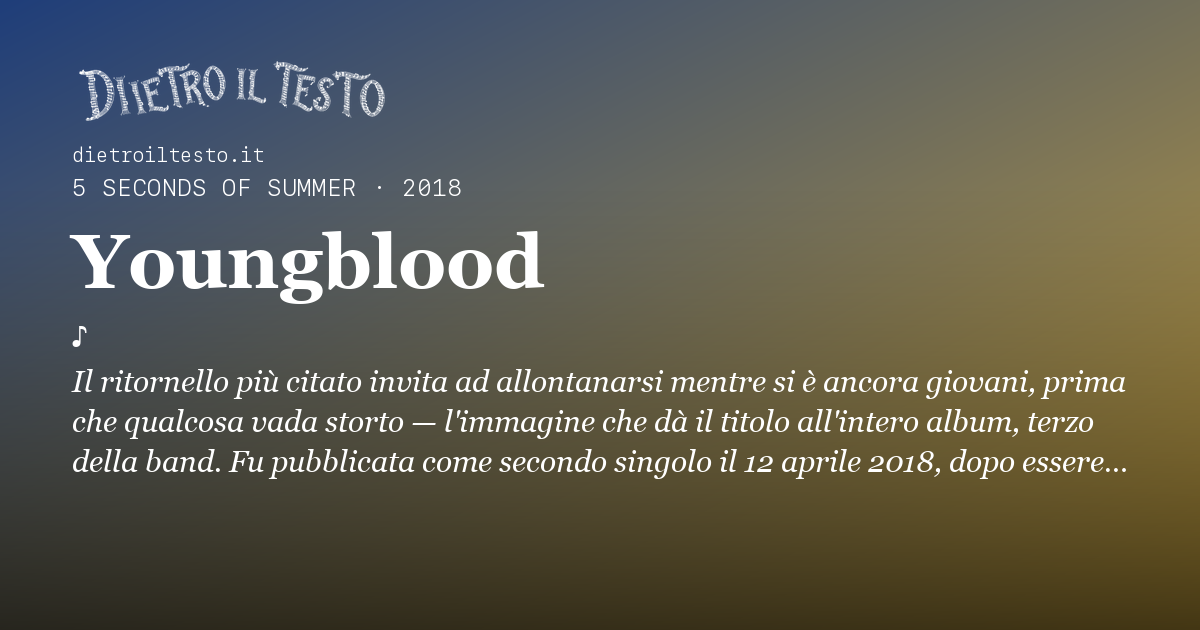
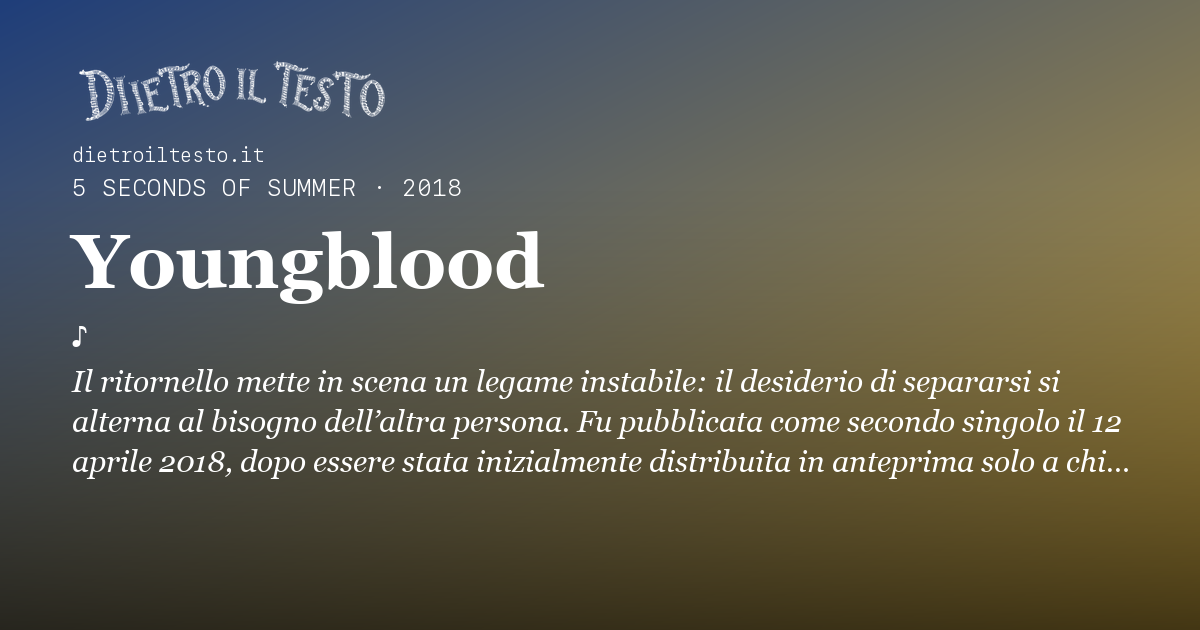
Corregge crediti e parafrasi Youngblood con fonti riaperte

Changed region(s): [[0.0617, 0.573, 0.9558, 0.754]]

diff --git a/canzone/youngblood/index.html b/canzone/youngblood/index.html
@@ -12,7 +12,7 @@
   } catch (e) {}
 })();
 </script>
-<meta name="description" content="Scritta da Calum Hood, Ali Tamposi, Andrew Watt, Ashton Irwin e Luke Hemmings.">
+<meta name="description" content="Scritta da Calum Hood, Ali Tamposi, Andrew Watt, Ashton Irwin, Luke Hemmings e Louis Bell.">
 
 
 <link rel="canonical" href="https://www.dietroiltesto.it/canzone/youngblood/">
@@ -22,15 +22,15 @@
 <meta property="og:type" content="music.song">
 <meta property="og:site_name" content="Dietro il testo">
 <meta property="og:title" content="Significato di Youngblood – 5 Seconds of Summer">
-<meta property="og:description" content="Scritta da Calum Hood, Ali Tamposi, Andrew Watt, Ashton Irwin e Luke Hemmings.">
+<meta property="og:description" content="Scritta da Calum Hood, Ali Tamposi, Andrew Watt, Ashton Irwin, Luke Hemmings e Louis Bell.">
 <meta property="og:url" content="https://www.dietroiltesto.it/canzone/youngblood/">
 <meta property="og:locale" content="it_IT">
-<meta property="og:image" content="https://www.dietroiltesto.it/og/youngblood.png">
+<meta property="og:image" content="https://www.dietroiltesto.it/og/youngblood.png?v=f4b142e25ad7">
 <meta property="og:image:width" content="1200">
 <meta property="og:image:height" content="630">
 <meta name="twitter:card" content="summary_large_image">
-<meta name="twitter:image" content="https://www.dietroiltesto.it/og/youngblood.png">
-<script type="application/ld+json">{"@context":"https://schema.org","@graph":[{"@type":"MusicRecording","@id":"https://www.dietroiltesto.it/canzone/youngblood/#brano","name":"Youngblood","byArtist":{"@type":"MusicGroup","name":"5 Seconds of Summer","url":"https://www.dietroiltesto.it/artista/5-seconds-of-summer/"},"inAlbum":{"@type":"MusicAlbum","name":"Youngblood"},"datePublished":"2018","url":"https://www.dietroiltesto.it/canzone/youngblood/","description":"Scritta da Calum Hood, Ali Tamposi, Andrew Watt, Ashton Irwin e Luke Hemmings."},{"@type":"BreadcrumbList","itemListElement":[{"@type":"ListItem","position":1,"name":"Home","item":"https://www.dietroiltesto.it/"},{"@type":"ListItem","position":2,"name":"Rock","item":"https://www.dietroiltesto.it/genere/rock/"},{"@type":"ListItem","position":3,"name":"Youngblood","item":"https://www.dietroiltesto.it/canzone/youngblood/"}]},{"@type":"Article","headline":"Youngblood","about":{"@id":"https://www.dietroiltesto.it/canzone/youngblood/#brano"},"isPartOf":{"@id":"https://www.dietroiltesto.it/#sito"},"author":{"@type":"Organization","@id":"https://www.dietroiltesto.it/#editore","name":"Dietro il testo","url":"https://www.dietroiltesto.it/","sameAs":["https://www.instagram.com/dietroiltesto.it/"]},"publisher":{"@id":"https://www.dietroiltesto.it/#editore"},"url":"https://www.dietroiltesto.it/canzone/youngblood/","dateModified":"2026-10-02"}]}</script>
+<meta name="twitter:image" content="https://www.dietroiltesto.it/og/youngblood.png?v=f4b142e25ad7">
+<script type="application/ld+json">{"@context":"https://schema.org","@graph":[{"@type":"MusicRecording","@id":"https://www.dietroiltesto.it/canzone/youngblood/#brano","name":"Youngblood","byArtist":{"@type":"MusicGroup","name":"5 Seconds of Summer","url":"https://www.dietroiltesto.it/artista/5-seconds-of-summer/"},"inAlbum":{"@type":"MusicAlbum","name":"Youngblood"},"datePublished":"2018","url":"https://www.dietroiltesto.it/canzone/youngblood/","description":"Scritta da Calum Hood, Ali Tamposi, Andrew Watt, Ashton Irwin, Luke Hemmings e Louis Bell."},{"@type":"BreadcrumbList","itemListElement":[{"@type":"ListItem","position":1,"name":"Home","item":"https://www.dietroiltesto.it/"},{"@type":"ListItem","position":2,"name":"Rock","item":"https://www.dietroiltesto.it/genere/rock/"},{"@type":"ListItem","position":3,"name":"Youngblood","item":"https://www.dietroiltesto.it/canzone/youngblood/"}]},{"@type":"Article","headline":"Youngblood","about":{"@id":"https://www.dietroiltesto.it/canzone/youngblood/#brano"},"isPartOf":{"@id":"https://www.dietroiltesto.it/#sito"},"author":{"@type":"Organization","@id":"https://www.dietroiltesto.it/#editore","name":"Dietro il testo","url":"https://www.dietroiltesto.it/","sameAs":["https://www.instagram.com/dietroiltesto.it/"]},"publisher":{"@id":"https://www.dietroiltesto.it/#editore"},"url":"https://www.dietroiltesto.it/canzone/youngblood/","dateModified":"2026-10-13"}]}</script>
 <style>
 :root {
   --bg: #FDFCFF;
@@ -441,7 +441,7 @@ a { color: inherit; }
 .griglia {
   display: grid; gap: 1px; background: var(--border);
   border: 1px solid var(--border); border-radius: 12px; overflow: hidden;
-  grid-template-columns: repeat(auto-fill, minmax(300px, 1fr));
+  grid-template-columns: repeat(auto-fill, minmax(min(300px, 100%), 1fr));
 }
 .scheda {
   display: flex; flex-direction: column; gap: 7px;
@@ -961,7 +961,7 @@ a { color: inherit; }
           data-titolo="Youngblood"
           data-artista="5 Seconds of Summer"
           data-anno="2018"
-          data-frase="Il ritornello più citato invita ad allontanarsi mentre si è ancora giovani, prima che qualcosa vada storto — l'immagine che dà il titolo all'intero album, terzo della band. Fu pubblicata come secondo singolo il 12 aprile 2018, dopo essere stata inizialmente distribuita in anteprima solo a chi avesse prenotato l'album. Segnò per i 5 Seconds of Summer il primo numero uno nella classifica radiofonica Pop Airplay statunitense, ed è diventata il loro brano di maggior successo in assoluto."
+          data-frase="Il ritornello mette in scena un legame instabile: il desiderio di separarsi si alterna al bisogno dell’altra persona. Fu pubblicata come secondo singolo il 12 aprile 2018, dopo essere stata inizialmente distribuita in anteprima solo a chi avesse prenotato l'album. Segnò per i 5 Seconds of Summer il primo numero uno nella classifica radiofonica Pop Airplay statunitense, ed è diventata il loro brano di maggior successo in assoluto."
           data-colore="#1F3E7A"
           data-colore2="#C9A23B"
           data-slug="youngblood"
@@ -969,7 +969,7 @@ a { color: inherit; }
           data-sito="dietroiltesto.it">
           <button type="button" class="bottone pieno" data-condividi
             data-titolo="Youngblood — 5 Seconds of Summer"
-            data-testo="Scritta da Calum Hood, Ali Tamposi, Andrew Watt, Ashton Irwin e Luke Hemmings, fu pubblicata come singolo il 12…"
+            data-testo="Scritta da Calum Hood, Ali Tamposi, Andrew Watt, Ashton Irwin, Luke Hemmings e Louis Bell, fu pubblicata come singolo…"
             data-url="https://www.dietroiltesto.it/canzone/youngblood/">Condividi</button>
           <button type="button" class="bottone" data-instagram
             aria-expanded="false" aria-controls="formati-instagram">Instagram</button>
@@ -994,7 +994,7 @@ a { color: inherit; }
       <section class="blocco testa-momento" id="momento" style="border-top:0;padding-top:0">
       <figure class="momento">
         <span class="etichetta">Momento iconico</span>
-        <p>Il ritornello più citato invita ad allontanarsi mentre si è ancora giovani, prima che qualcosa vada storto — l'immagine che dà il titolo all'intero album, terzo della band. Fu pubblicata come secondo singolo il 12 aprile 2018, dopo essere stata inizialmente distribuita in anteprima solo a chi avesse prenotato l'album. Segnò per i 5 Seconds of Summer il primo numero uno nella classifica radiofonica Pop Airplay statunitense, ed è diventata il loro brano di maggior successo in assoluto.</p>
+        <p>Il ritornello mette in scena un legame instabile: il desiderio di separarsi si alterna al bisogno dell’altra persona. Fu pubblicata come secondo singolo il 12 aprile 2018, dopo essere stata inizialmente distribuita in anteprima solo a chi avesse prenotato l'album. Segnò per i 5 Seconds of Summer il primo numero uno nella classifica radiofonica Pop Airplay statunitense, ed è diventata il loro brano di maggior successo in assoluto.</p>
         <span class="cautela">Descritto con parole nostre: non riproduciamo il testo della canzone.</span>
       </figure>
       </section>
@@ -1005,7 +1005,7 @@ a { color: inherit; }
     <section class="blocco" id="storia">
       <h2>La storia</h2>
       <div class="prosa">
-        <p>Scritta da Calum Hood, Ali Tamposi, Andrew Watt, Ashton Irwin e Luke Hemmings, fu pubblicata come singolo il 12 aprile 2018, traccia che dà il titolo al terzo album in studio della band, un deciso cambio di rotta verso il new wave e il synth-pop rispetto al pop punk delle origini. Presentandolo, il cantante Luke Hemmings ha spiegato che la band sentiva il bisogno di mettersi alla prova con un suono nuovo, definendolo un modo per «ricominciare tutto da capo, come una nuova band».</p>
+        <p>Scritta da Calum Hood, Ali Tamposi, Andrew Watt, Ashton Irwin, Luke Hemmings e Louis Bell, fu pubblicata come singolo il 12 aprile 2018, traccia che dà il titolo al terzo album in studio della band, un deciso cambio di rotta verso il new wave e il synth-pop rispetto al pop punk delle origini. Presentandolo, il cantante Luke Hemmings ha spiegato che la band sentiva il bisogno di mettersi alla prova con un suono nuovo, definendolo un modo per «ricominciare tutto da capo, come una nuova band».</p>
         <p>Il batterista Ashton Irwin ha aggiunto che il genere li attirava perché capace di essere insieme malinconico ed energico: «amavamo il fatto che il new wave potesse essere davvero malinconico, ma anche vivace. Aveva romanticismo e rabbia, ma anche energia e colore». Il brano vinse l'ARIA Award per la canzone dell'anno nel 2018, raggiunse il primo posto in Australia (dove restò per otto settimane consecutive) e in Nuova Zelanda, ed è diventato il brano più ascoltato della band su Spotify, superando i 2 miliardi di streaming.</p>
 
       </div>
@@ -1058,6 +1058,10 @@ a { color: inherit; }
       <div class="fonti-gruppo">
         <span class="fonti-etichetta">Sulla storia</span>
         <ol class="fonti"><li><span class="num">01</span><a href="https://web.archive.org/web/20190427125019/https://www.altpress.com/news/entry/5_seconds_of_summer_youngblood_new_song" target="_blank" rel="noopener">Alternative Press, 12 aprile 2018, di Maggie Dickman</a></li><li><span class="num">02</span><a href="https://en.wikipedia.org/wiki/Youngblood_(5_Seconds_of_Summer_song)" target="_blank" rel="noopener">Wikipedia</a></li></ol>
+      </div>
+      <div class="fonti-gruppo">
+        <span class="fonti-etichetta">Sui crediti</span>
+        <ol class="fonti"><li><span class="num">01</span><a href="https://www.qobuz.com/us-en/album/youngblood-5-seconds-of-summer/wt7yyw4b1r1vc" target="_blank" rel="noopener">Qobuz — Youngblood, crediti digitali della traccia 1</a></li><li><span class="num">02</span><a href="https://www.shazam.com/en-us/song/1369109665/youngblood" target="_blank" rel="noopener">Shazam — Youngblood, crediti e testo del brano</a></li></ol>
       </div>
       <div class="azioni" style="margin-top:22px">
         <a class="bottone" href="../../metodo/">Come verifichiamo</a>

diff --git a/rapporti/youngblood-crediti-2026-10-13.md b/rapporti/youngblood-crediti-2026-10-13.md
@@ -1,0 +1,43 @@
+# Youngblood — due correzioni sostanziali, 13 ottobre 2026
+
+## Osservazioni e precedenza
+
+Letti Costituzione, Roadmap recente e stato reale di main e copie separate. La proposta Michael Jackson resta pulita al commit 017bad3e1 e non è approvata/integrata. Main/origin ancora f8ce08b0a. La copia dell’altra AI conserva i rapporti in lavorazione e non è stata modificata. Dodici vecchie copie in Vediamo non rispondono al controllo Git entro un secondo: lasciate intatte.
+
[1 lines of base64/hex data omitted]
+
+## Fonti riaperte e correzioni
+
+1. [Qobuz — Youngblood, traccia 1](https://www.qobuz.com/us-en/album/youngblood-5-seconds-of-summer/wt7yyw4b1r1vc): crediti digitali riportano Luke Hemmings, Calum Hood, Ashton Irwin, Andrew Watt, Louis Bell e Ali Tamposi come ComposerLyricist. Copyright della registrazione One Mode Productions / Universal Music Operations.
+2. [Shazam — Youngblood](https://www.shazam.com/en-us/song/1369109665/youngblood): sezione COMPOSITION & LYRICS conferma i sei Songwriter. Il testo del ritornello alterna richiesta di separazione e bisogno dell’altra persona: non contiene l’invito descritto nella vecchia parafrasi. Nessun verso o traduzione trascritto nel sito o nelle prove.
+3. [Universal Music Italia](https://www.universalmusic.it/popular-music/album/youngblood_32554123219/), riaperta come contesto: contiene crediti di produzione, non la lista dei compositori usata per questa correzione. Non aggiunta alle fonti della scheda.
+
+Aggiunto Louis Bell nel solo incipit del corpo; description, og:description, JSON-LD e testo di condivisione riallineati dal generatore. Due nuove fonti visibili nella sezione Sui crediti. Corretto soltanto il primo passaggio del momento iconico: «Il ritornello mette in scena un legame instabile: il desiderio di separarsi si alterna al bisogno dell’altra persona.» Il resto del momento iconico è preservato.
+
[1 lines of base64/hex data omitted]
+
+## File toccati e date
+
+- `dati/canzoni.json`: unico record youngblood, campi corpo[0], fraseIconica e fonti.
+- `dati/og-versioni.json`: sola chiave youngblood aggiunta.
+- `og/youngblood.png` e `canzone/youngblood/index.html`.
+- `sitemap-canzoni.xml`: sola voce Youngblood, lastmod 2 → 13 ottobre 2026, coerente con dateModified della pagina.
+- Questo dossier, prove e ROADMAP §97.
+
+DatePublished, title e canonical invariati; 695 altri HTML e cinque altre sitemap identici. Nessuna modifica a dati degli artisti, foto o affiliazioni. Nessuna modifica ai template: l’HTML mirato incorpora il minmax mobile già presente nel template vigente.
+
+## Verifiche
+
+Protezioni F40 lette prima di generare. Baseline da file tracciati, `genera-sito --solo-canzoni youngblood`, nessun build generale. `genera-og --slug youngblood`: una sola cartolina. Prima esecuzione Python priva di numpy; completata usando il runtime già incluso in Codex, senza installazioni.
+
+SEO 696 pagine/zero problemi; link 321 canzoni e 104 artisti/zero problemi; affiliazioni 1.065 link/positivo; coerenza zero problemi; nature 71 valide, 250 assenti, zero rifiutate. Browser 1280×900, 390×1000 e 320×1000: testo e crediti corretti, fonti presenti, nessun overflow o errore/warning console. Screenshot e misure in [prove-youngblood-2026-10-13](prove-youngblood-2026-10-13/). Diff senza errori di spazio.
+
+## Limiti e autorizzazioni
+
+Non è una revisione integrale: restano fuori da questo lotto le citazioni dell’intervista, la distribuzione preorder, le classifiche e i record di ascolto segnalati nel rapporto. Nessuna nuova ultimaVerifica o attribuzione di verifica indipendente; avviso «non ancora verificata frase per frase» conservato. Le anteprime in altri HTML e l’indice di ricerca non sono rigenerati: possono conservare l’incipit precedente fino a un successivo intervento approvato. Non dichiarata alcuna verifica GSC.
+
+**Proposta isolata da approvare**, copia `/Users/gianmicheletroisi/.codex/worktrees/youngblood-crediti-2026-10-13/dietro-il-testo`, ramo `codex/youngblood-crediti-2026-10-13`, base f8ce08b0a. Registrazione app impedita dal limite di 100 allegati, anche al tentativo di collegamento; checkout disponibile. Main, due documenti SEO non tracciati e loro hash preservati; copia dell’altra AI e lotti pendenti intatti.
+
+Per integrare dopo approvazione, unire solo i campi del record youngblood e la chiave OG nel JSON, i due file pubblici, la sola voce sitemap e la nuova sezione §97 della Roadmap. Non sovrascrivere documenti interi: §96 della proposta Michael Jackson resta separata e richiede la propria approvazione. Non trasferito nel main, nessun push o deploy. Servono autorizzazioni specifiche per queste azioni.
+
+Filone concluso: **correzione sostanziale circoscritta P1/P2**. Il successivo ciclo può riprendere la ricerca fotografica dei R.E.M.; nessun lotto fotografico R.E.M. è dichiarato concluso.

diff --git a/ROADMAP.md b/ROADMAP.md
@@ -4615,3 +4615,14 @@ Filone concluso nella copia: **revisione editoriale circoscritta, mobile e colle
 Lotto §95 approvato nominativamente dal proprietario con i limiti dichiarati: fast-forward del commit 6ddf6ec27 da main/origin ancora sulla base 984d94f61, nessun conflitto e tutti i 29 file coincidenti con la copia verificata; push del solo lotto. Deploy dpl_Aa1K3KvWLaXtRB2ZfPMGQVgzsfUN READY production, SHA, progetto e alias www.dietroiltesto.it verificati, build 17 secondi. Quattro HTML, sei sitemap e due OG HTTPS identici a main. Dodici prove browser 1280/390/320, quattro percorsi completi desktop/mobile e zero errori console; screenshot online aggiunti al dossier.
 
 Controlli ripetuti positivi sulla copia allineata a main. Il primo check contestuali in main aveva letto il vecchio sito/ ignorato: anteprima estranea lasciata intatta, 29 file tracciati confrontati e pubblico allineato. Lettura progetto/log Vercel 403, CLI assente; metadata del singolo deployment positivo, nessun controllo globale dei log dichiarato. DatePublished/metadati e sitemap invariati; dateModified delle quattro pagine al 12 ottobre. Limiti sui crediti e verifica indipendente dichiarati e approvati; file SEO non tracciati, altra AI e routine PAUSED preservati. Nessuna richiesta GSC o IndexNow. Filone concluso: **revisione editoriale circoscritta, mobile e due collegamenti pubblicati e verificati**.
+
+
+## 97. Youngblood — autori e parafrasi del ritornello, 13 ottobre 2026, proposta verificata
+
+Eccezione alla priorità immagini per due errori P1/P2 ancora online, segnalati dal rapporto 30 dell’altra AI e verificati nuovamente. Qobuz e Shazam riaperti: sei autori, incluso Louis Bell; testo del ritornello incompatibile con la vecchia descrizione. Aggiunto l’autore al corpo e ai metadati interessati, corretto il primo passaggio del momento iconico con parole originali e aggiunte due fonti visibili. Una sola OG rigenerata e controllata, URL con versione per la cache.
+
+Un solo record canzone e HTML, una chiave OG, una cartolina e una voce sitemap; dateModified/lastmod Youngblood al 13 ottobre, datePublished/title/canonical invariati. Su 696 HTML e sei sitemap, 695 pagine e cinque sitemap intatte. Generazione mirata dopo lettura F40, nessun build generale. HTML target riceve griglia mobile già nel template; template condiviso invariato. Affiliazioni, foto e dati artisti intatti.
+
+SEO, link, affiliazioni, coerenza e nature positivi. Browser 1280/390/320: testi corretti, avviso di verifica integrale preservato, nessun overflow o errore console. Altri rilievi Youngblood e anteprime degli altri HTML/ricerca fuori dal lotto: non dichiarata una verifica integrale né indipendente. Dossier rapporti/youngblood-crediti-2026-10-13.md e prove-youngblood-2026-10-13.
+
+Filone concluso nella copia: **correzione sostanziale circoscritta P1/P2**. Copia /Users/gianmicheletroisi/.codex/worktrees/youngblood-crediti-2026-10-13/dietro-il-testo, branch codex/youngblood-crediti-2026-10-13, base f8ce08b0a. Proposta da approvare per integrazione, push e pubblicazione. Main/non tracciati, altra AI e Michael Jackson 017bad3e1 preservati. Registrazione app al limite di allegati. Nessuna attività GSC. Prossimo ciclo fotografico: R.E.M., ricerca preliminare non registrata come lotto concluso. Unire la sezione §97 senza trasferire la §96 fotografica pendente.
